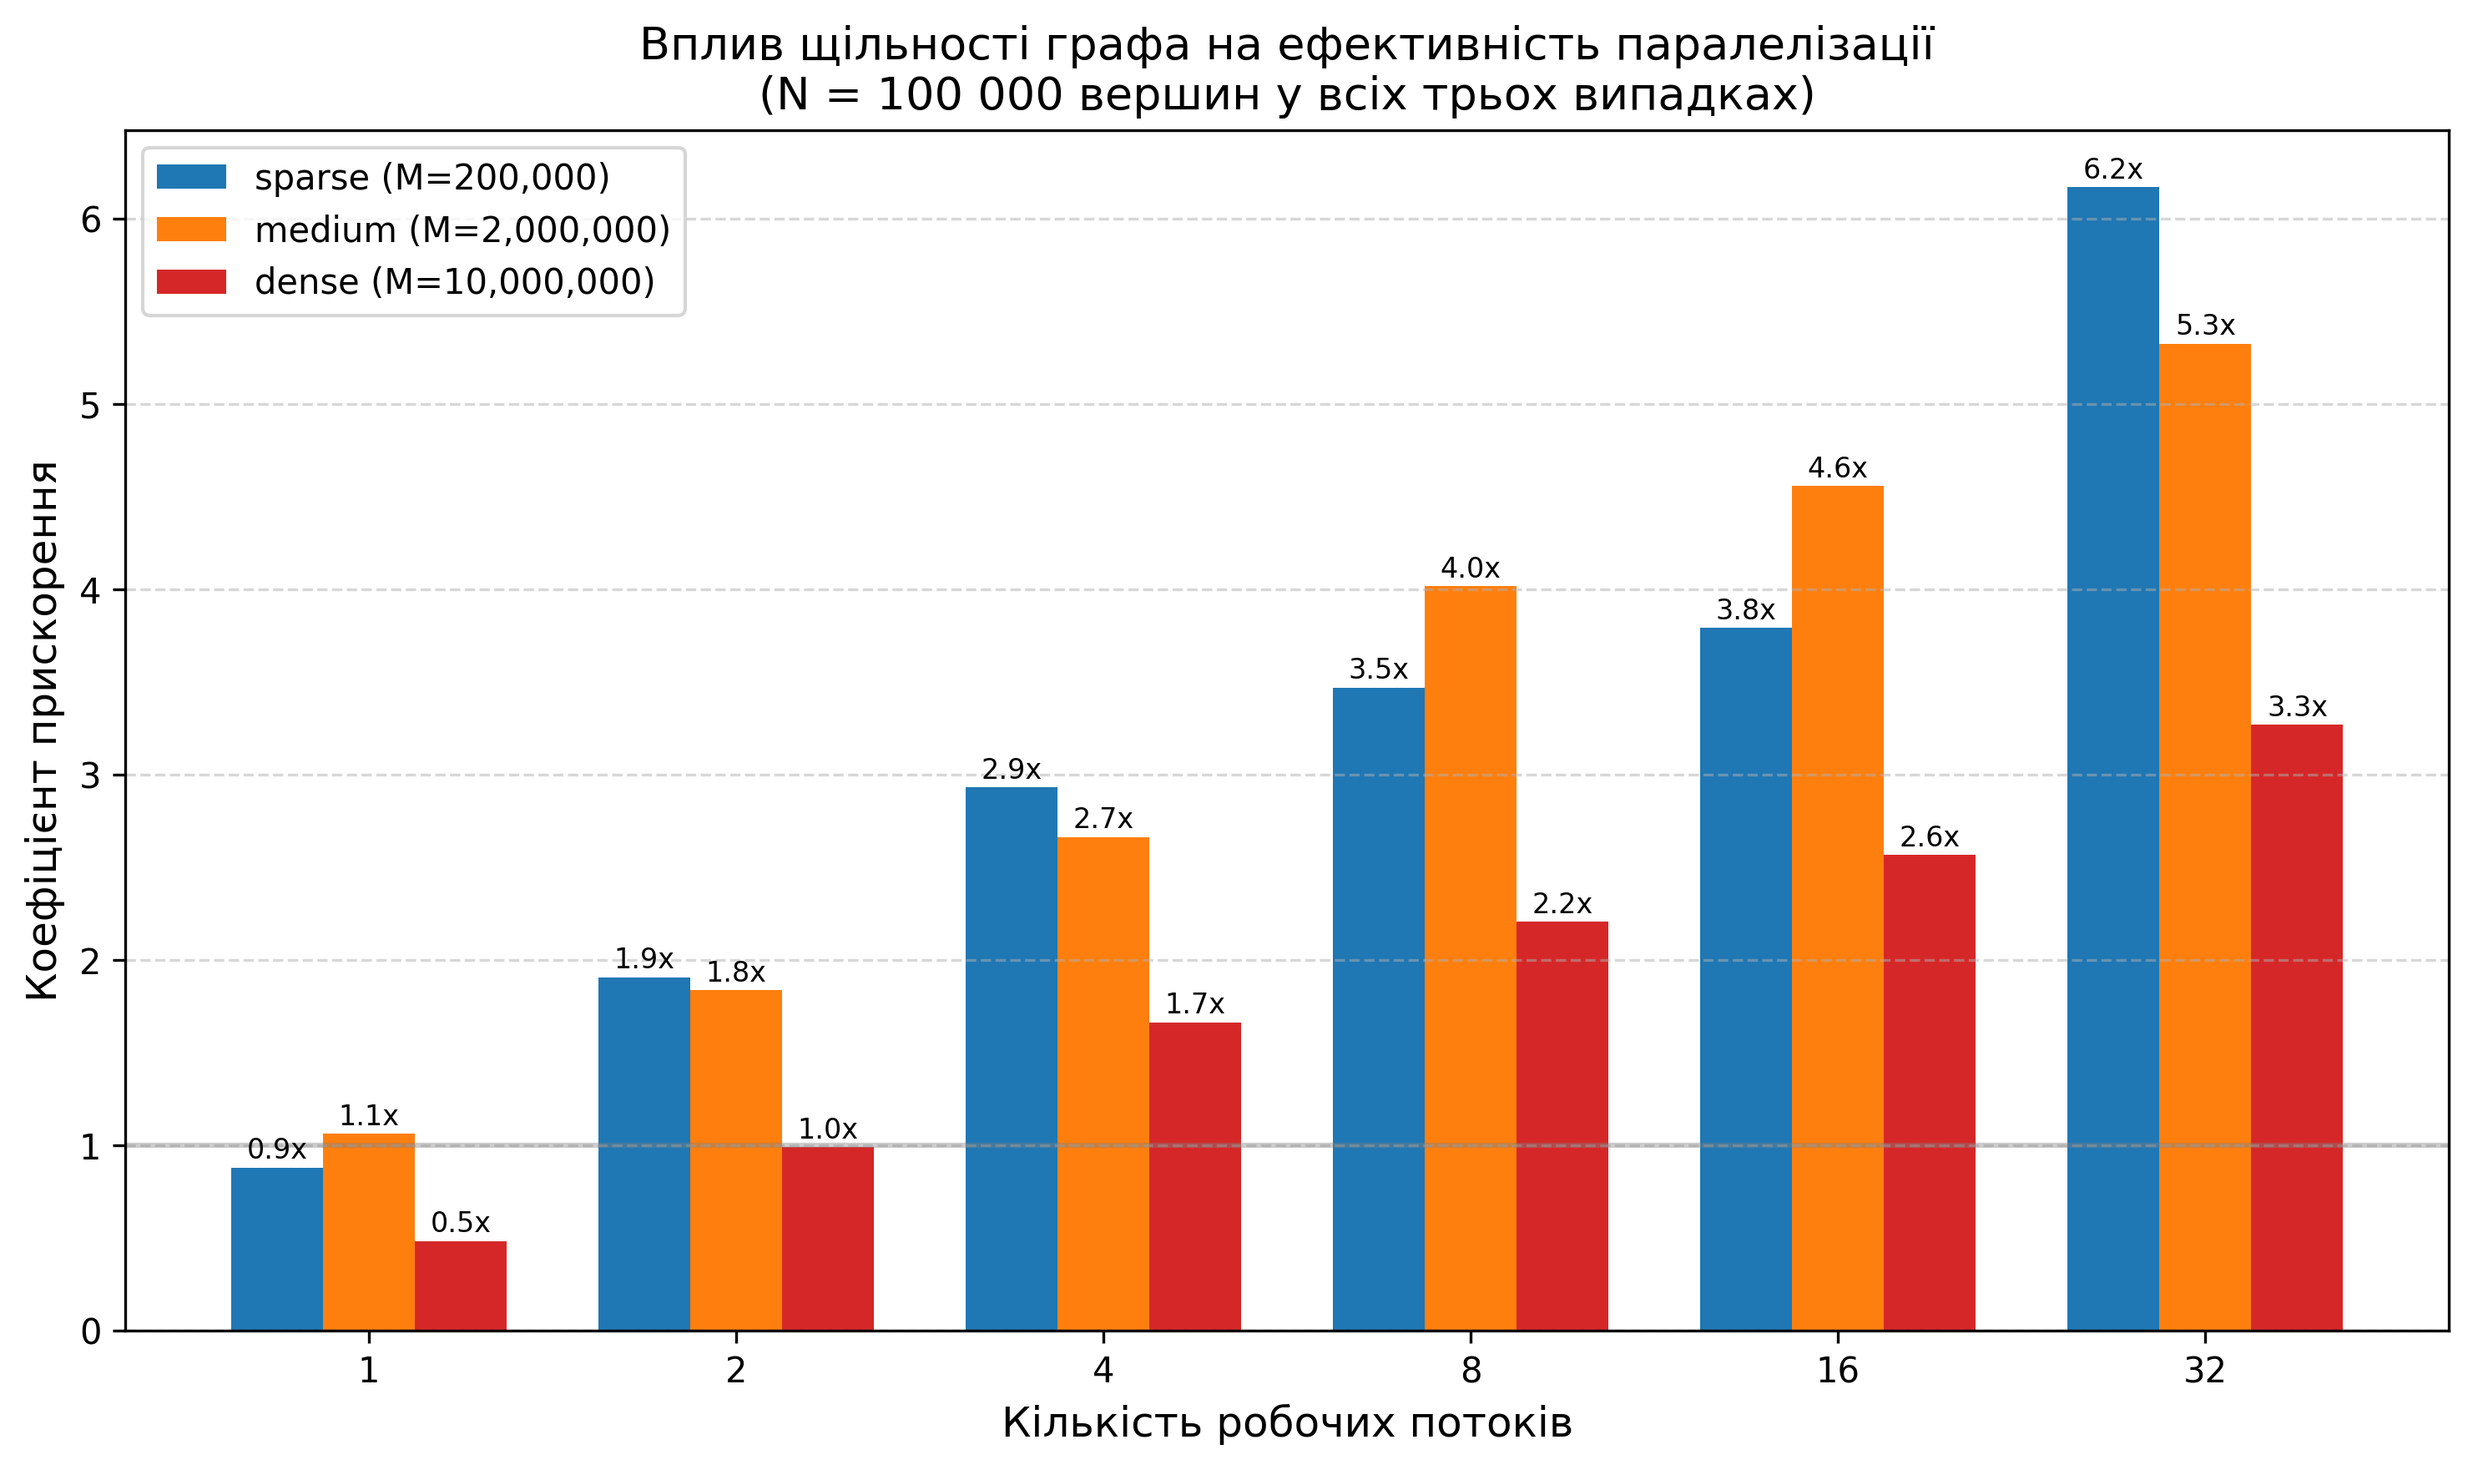
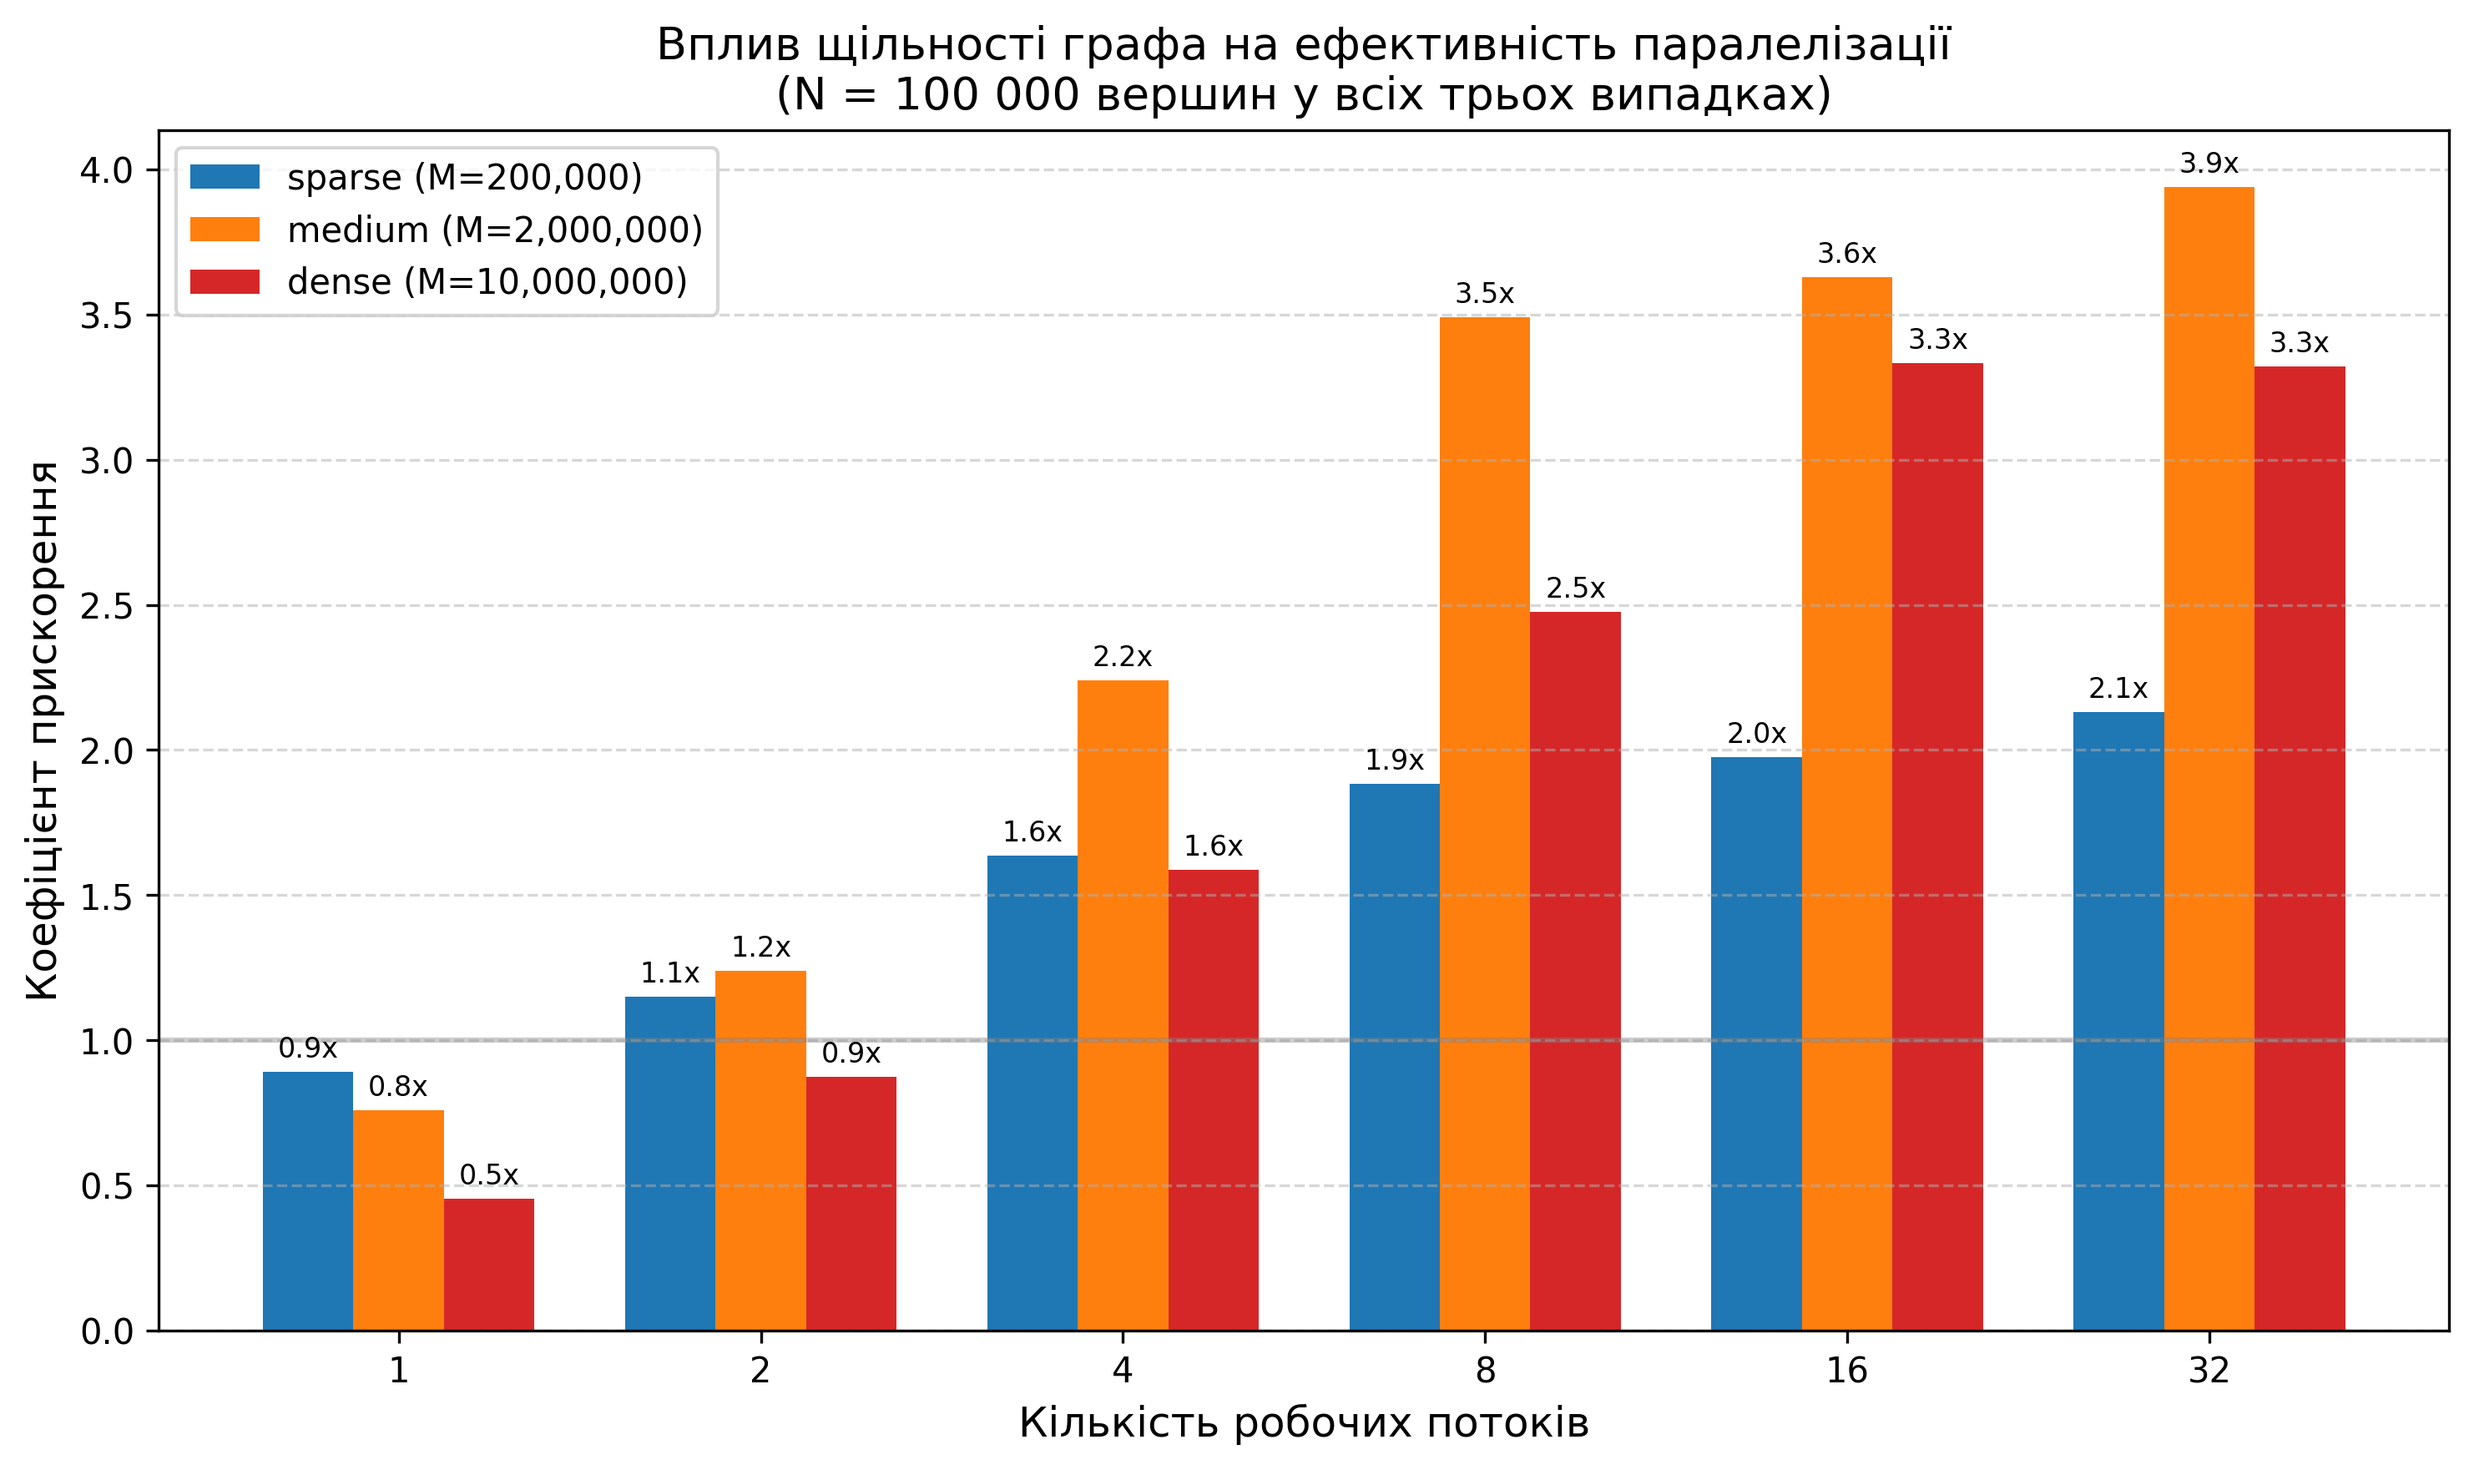
good-graphs

diff --git a/csharp-cc/plot_results.py b/csharp-cc/plot_results.py
@@ -1,19 +1,3 @@
-"""
-Побудова графіків для курсової роботи.
-
-Читає benchmark_results.csv (генерується QuickBenchmark при запуску
-опції 4 у CLI-меню) і будує три графіки:
-  1) plot_time.png    - час виконання по датасетах vs кількість потоків
-  2) plot_speedup.png - коефіцієнт прискорення vs кількість потоків
-  3) plot_density.png - порівняння часу для різних щільностей графа
-
-Запуск:
-  pip install matplotlib pandas
-  python plot_results.py
-
-Графіки зберігаються в поточній директорії як PNG (300 DPI).
-"""
-
 import csv
 import os
 import sys
@@ -104,7 +88,7 @@ def plot_time(data, out_path):
 
 
 def plot_speedup(data, out_path):
-    """Графік 2: коефіцієнт прискорення vs кількість потоків"""
+    """Графік 2: коефіцієнт прискорення vs кількість потоків (БЕЗ ідеальної лінії)"""
     fig, ax = plt.subplots(figsize=(10, 6))
 
     styles = {
@@ -114,21 +98,16 @@ def plot_speedup(data, out_path):
         "large":  ("D-", "#2ca02c"),
     }
 
-    max_workers = 0
     for ds_name, ds_data in data.items():
         if ds_name not in styles:
             continue
         marker, color = styles[ds_name]
         workers = sorted(ds_data["speedups"].keys())
-        max_workers = max(max_workers, max(workers))
         speedups = [ds_data["speedups"][w] for w in workers]
         label = f"{ds_name}"
         ax.plot(workers, speedups, marker, label=label, color=color, linewidth=2, markersize=8)
 
-    ideal_x = [1, 2, 4, 8, 16, 32]
-    ideal_x = [x for x in ideal_x if x <= max_workers]
-    ax.plot(ideal_x, ideal_x, "k--", alpha=0.4, linewidth=1, label="Ідеальне (S = N)")
-
+    # Цільова лінія (мінімальна планка)
     ax.axhline(y=1.2, color="red", linestyle=":", alpha=0.6, label="Ціль ТЗ: 1,2x")
 
     ax.set_xlabel("Кількість робочих потоків", fontsize=12)
@@ -199,25 +178,17 @@ def main():
     if not csv_path:
         print()
         print("ПОМИЛКА: не знайдено benchmark_results.csv.")
-        print("Спочатку запустіть бенчмарк через CLI (опція 4).")
         sys.exit(1)
 
-    print(f"  Читаю CSV: {csv_path}")
     data = read_data(csv_path)
-    print(f"  Знайдено датасетів: {len(data)}")
-    for ds in data:
-        print(f"    - {ds}: N={data[ds]['nodes']:,}, M={data[ds]['edges']:,}")
-
     out_dir = os.path.dirname(csv_path)
-    print()
-    print("  Будую графіки...")
+
     plot_time(data, os.path.join(out_dir, "plot_time.png"))
     plot_speedup(data, os.path.join(out_dir, "plot_speedup.png"))
     plot_density(data, os.path.join(out_dir, "plot_density.png"))
 
     print()
-    print("  Готово! Графіки збережено у:", out_dir)
-    print("  Тепер їх можна вставити у курсову замість плейсхолдерів рисунків.")
+    print("  Готово! Графіки збережено.")
 
 
 if __name__ == "__main__":
